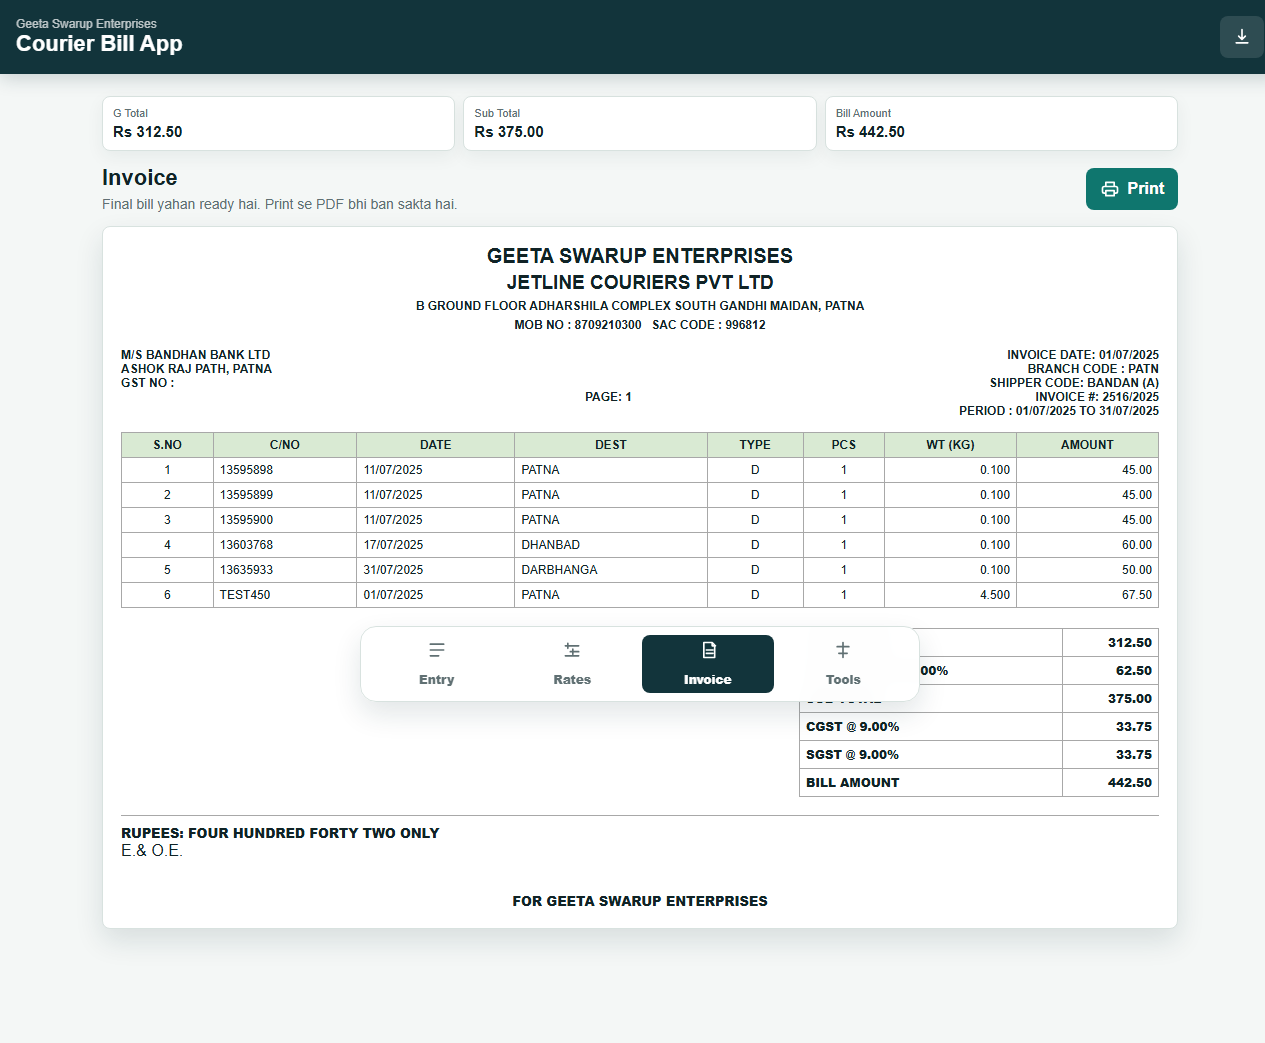
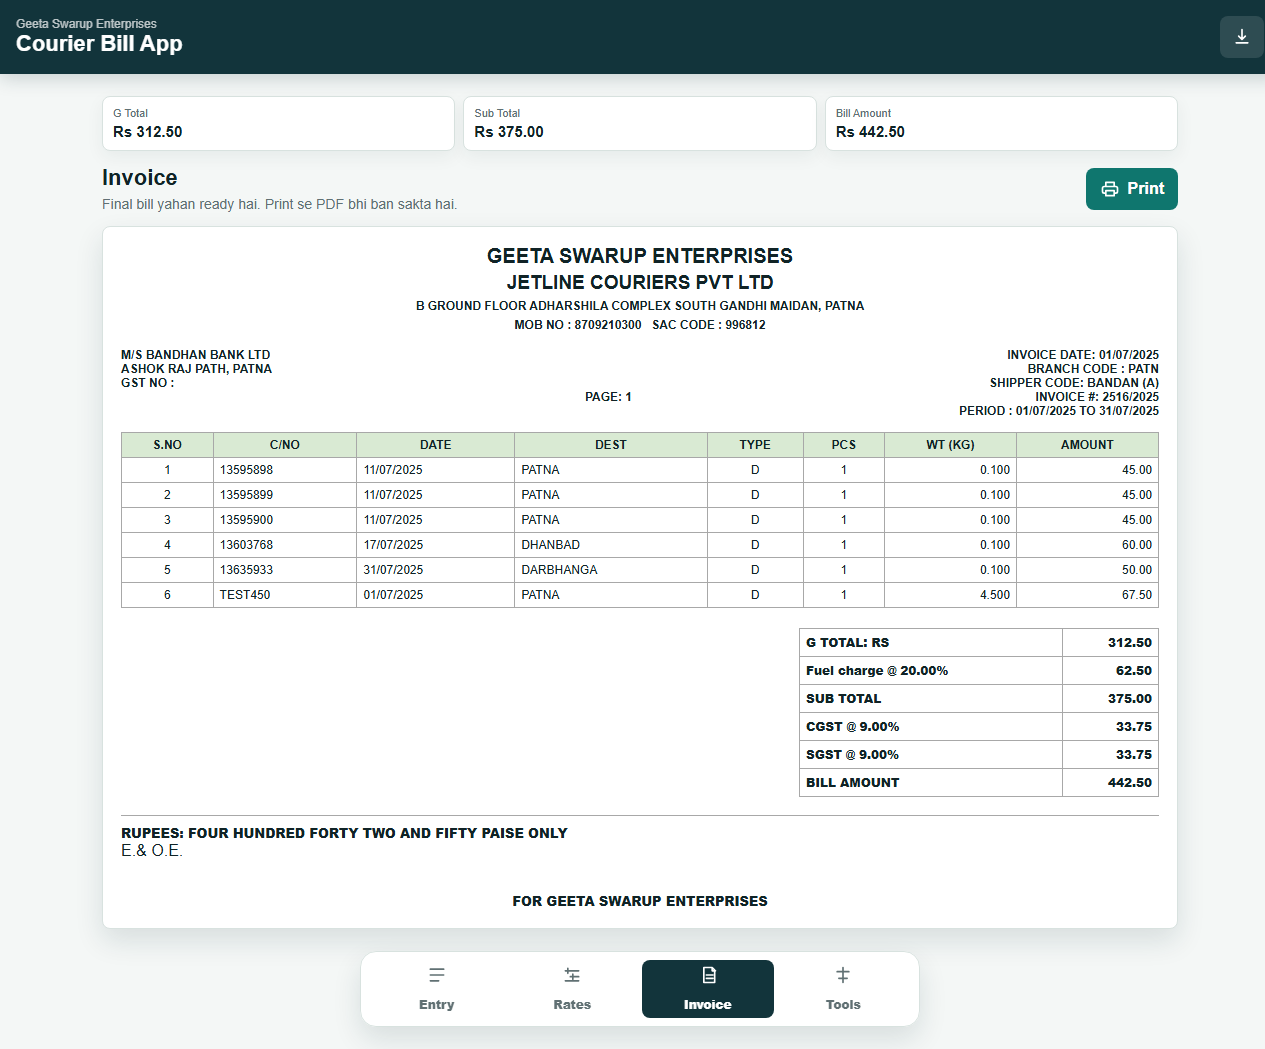
Update shipment card rendering, format amount pill display, update invoice screenshots, and add package.json dev script

diff --git a/mobile-bill-app/app.js b/mobile-bill-app/app.js
@@ -350,7 +350,7 @@ function renderShipments() {
       : `<option value="">No rate</option>`;
 
     return `
-      <tr data-id="${shipment.id}" class="${result.status === "missing" ? "row-error" : ""}">
+      <tr data-id="${shipment.id}" class="shipment-card ${result.status === "missing" ? "row-error" : ""}">
         <td class="col-num">${index + 1}</td>
         <td><input class="cell-input" data-id="${shipment.id}" data-field="cno" data-kind="shipment" value="${escapeHtml(shipment.cno ?? "")}" placeholder="C/NO" inputmode="numeric" /></td>
         <td><input class="cell-input" data-id="${shipment.id}" data-field="date" data-kind="shipment" type="date" value="${escapeHtml(shipment.date ?? "")}" /></td>
@@ -358,7 +358,11 @@ function renderShipments() {
         <td><input class="cell-input cell-sm" data-id="${shipment.id}" data-field="type" data-kind="shipment" value="${escapeHtml(shipment.type || "D")}" /></td>
         <td><input class="cell-input cell-num" data-id="${shipment.id}" data-field="pcs" data-kind="shipment" type="number" inputmode="numeric" value="${escapeHtml(shipment.pcs ?? 1)}" /></td>
         <td><input class="cell-input cell-num" data-id="${shipment.id}" data-field="weight" data-kind="shipment" type="number" inputmode="decimal" step="0.001" value="${escapeHtml(shipment.weight ?? "")}" /></td>
-        <td class="col-amount ${result.status === "missing" ? "error" : ""}">${result.status === "missing" ? "!" : plainMoney(result.amount)}</td>
+        <td class="col-amount">
+          <span class="amount-pill ${result.status === "missing" ? "error" : ""}">
+            ${result.status === "missing" ? "CHECK RATE" : money(result.amount)}
+          </span>
+        </td>
         <td class="col-action">
           <button class="icon-btn" type="button" data-action="duplicate-shipment" aria-label="Duplicate" title="Copy row">
             <svg viewBox="0 0 24 24" aria-hidden="true"><path d="M8 8V5a2 2 0 0 1 2-2h9v13h-3M6 21H4a2 2 0 0 1-2-2V8a2 2 0 0 1 2-2h2" /></svg>
@@ -717,10 +721,10 @@ function updateShipmentRow(shipment) {
   const row = document.querySelector(`#shipmentList tr[data-id="${shipment.id}"]`);
   if (!row) return;
   const result = calculateShipment(shipment);
-  const amountCell = row.querySelector(".col-amount");
-  if (amountCell) {
-    amountCell.classList.toggle("error", result.status === "missing");
-    amountCell.textContent = result.status === "missing" ? "!" : plainMoney(result.amount);
+  const pill = row.querySelector(".amount-pill");
+  if (pill) {
+    pill.classList.toggle("error", result.status === "missing");
+    pill.textContent = result.status === "missing" ? "CHECK RATE" : money(result.amount);
   }
   row.classList.toggle("row-error", result.status === "missing");
 }
